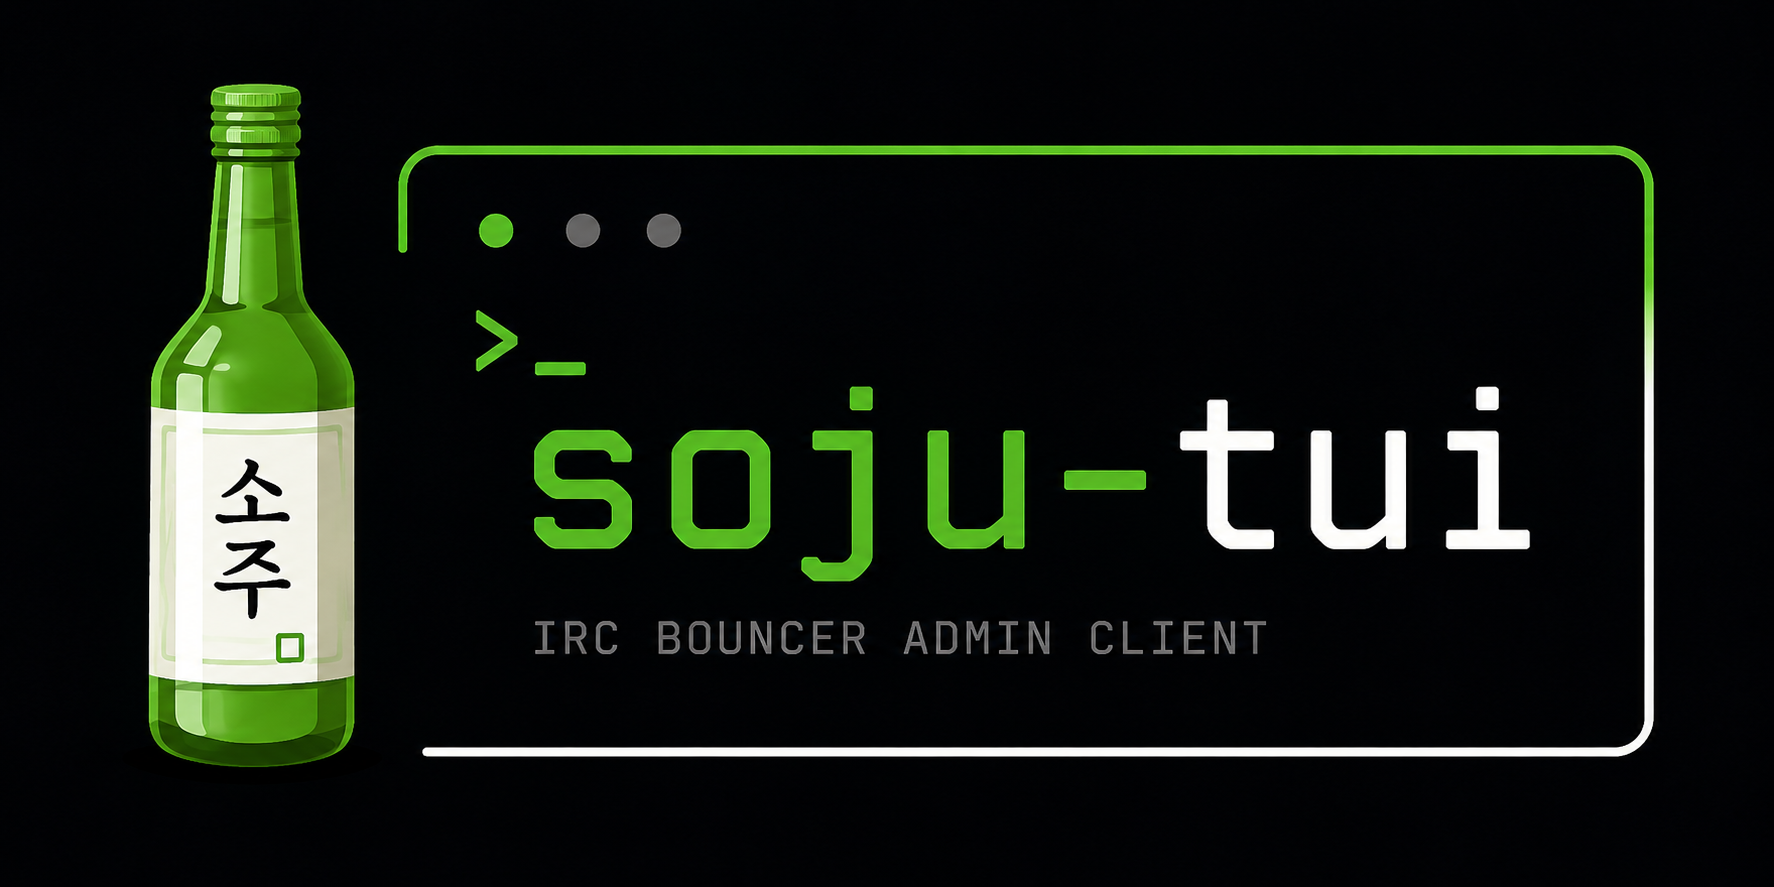
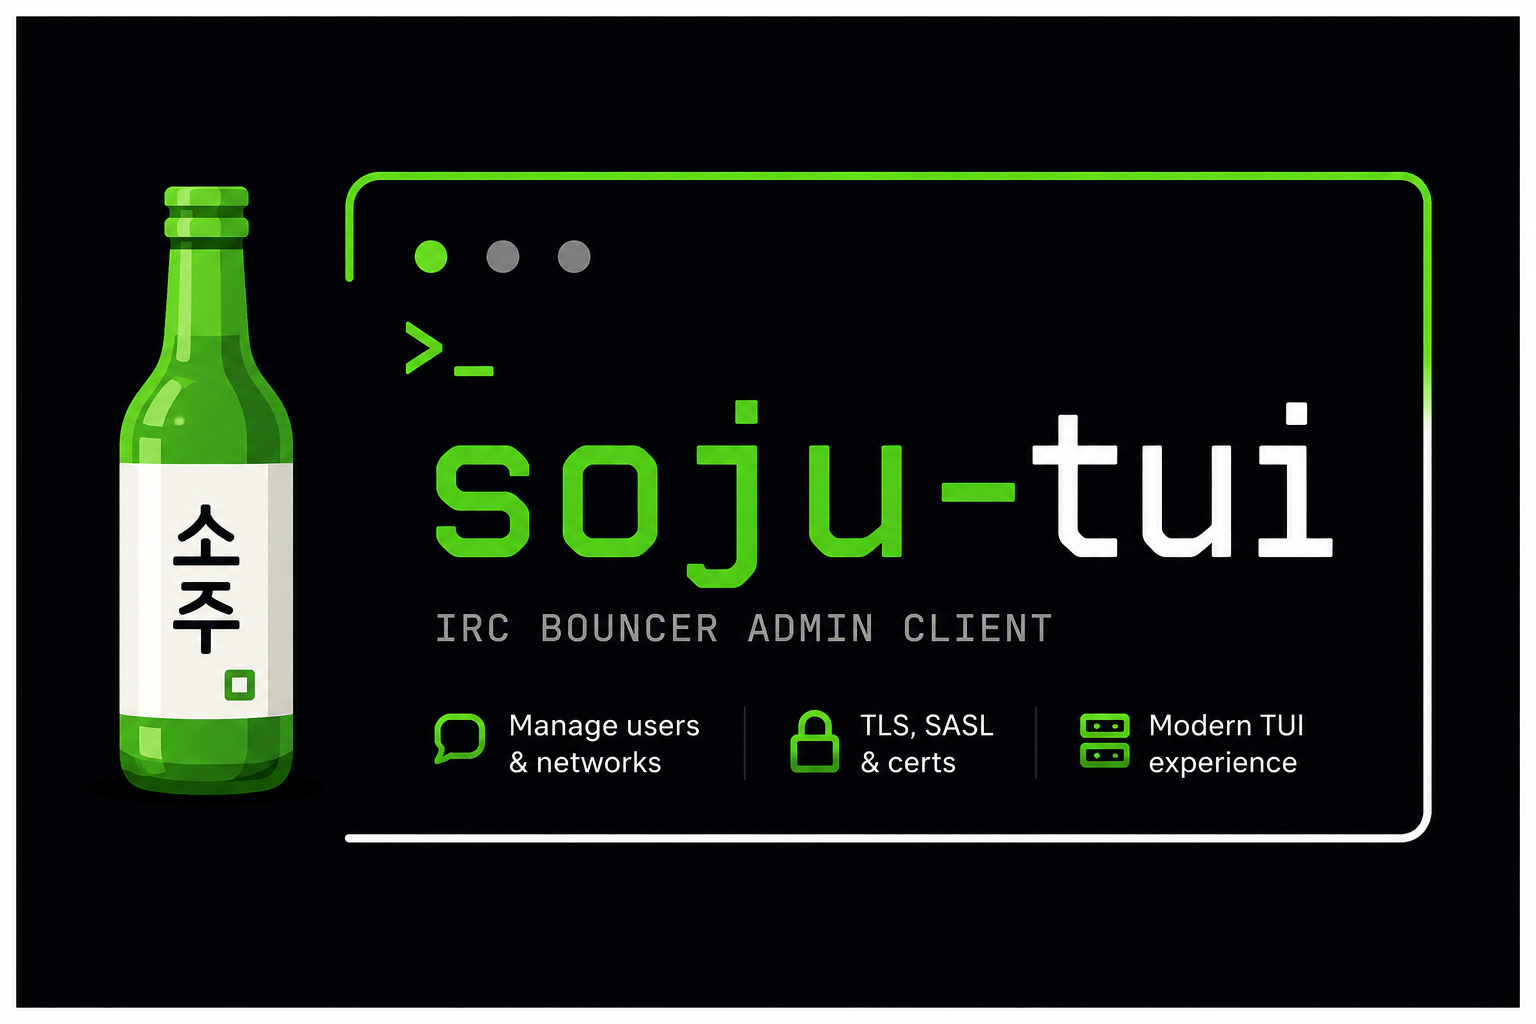
Replace social preview artwork (#15)
* Replace social preview artwork

* Update social preview asset documentation

diff --git a/assets/README.md b/assets/README.md
@@ -4,7 +4,7 @@ Repository media is grouped by purpose:
 
 - `branding/soju-tui.png` — README banner and primary project artwork
 - `branding/soju-tui-avatar.png` — square project avatar
-- `branding/soju-tui-social-preview.png` — 2:1 GitHub social preview source
+- `branding/soju-tui-social-preview.png` — GitHub social preview source
 - `screenshots/soju-tui-screen.png` — current administration interface screenshot
 
 GitHub repository avatars and social previews are configured in repository
